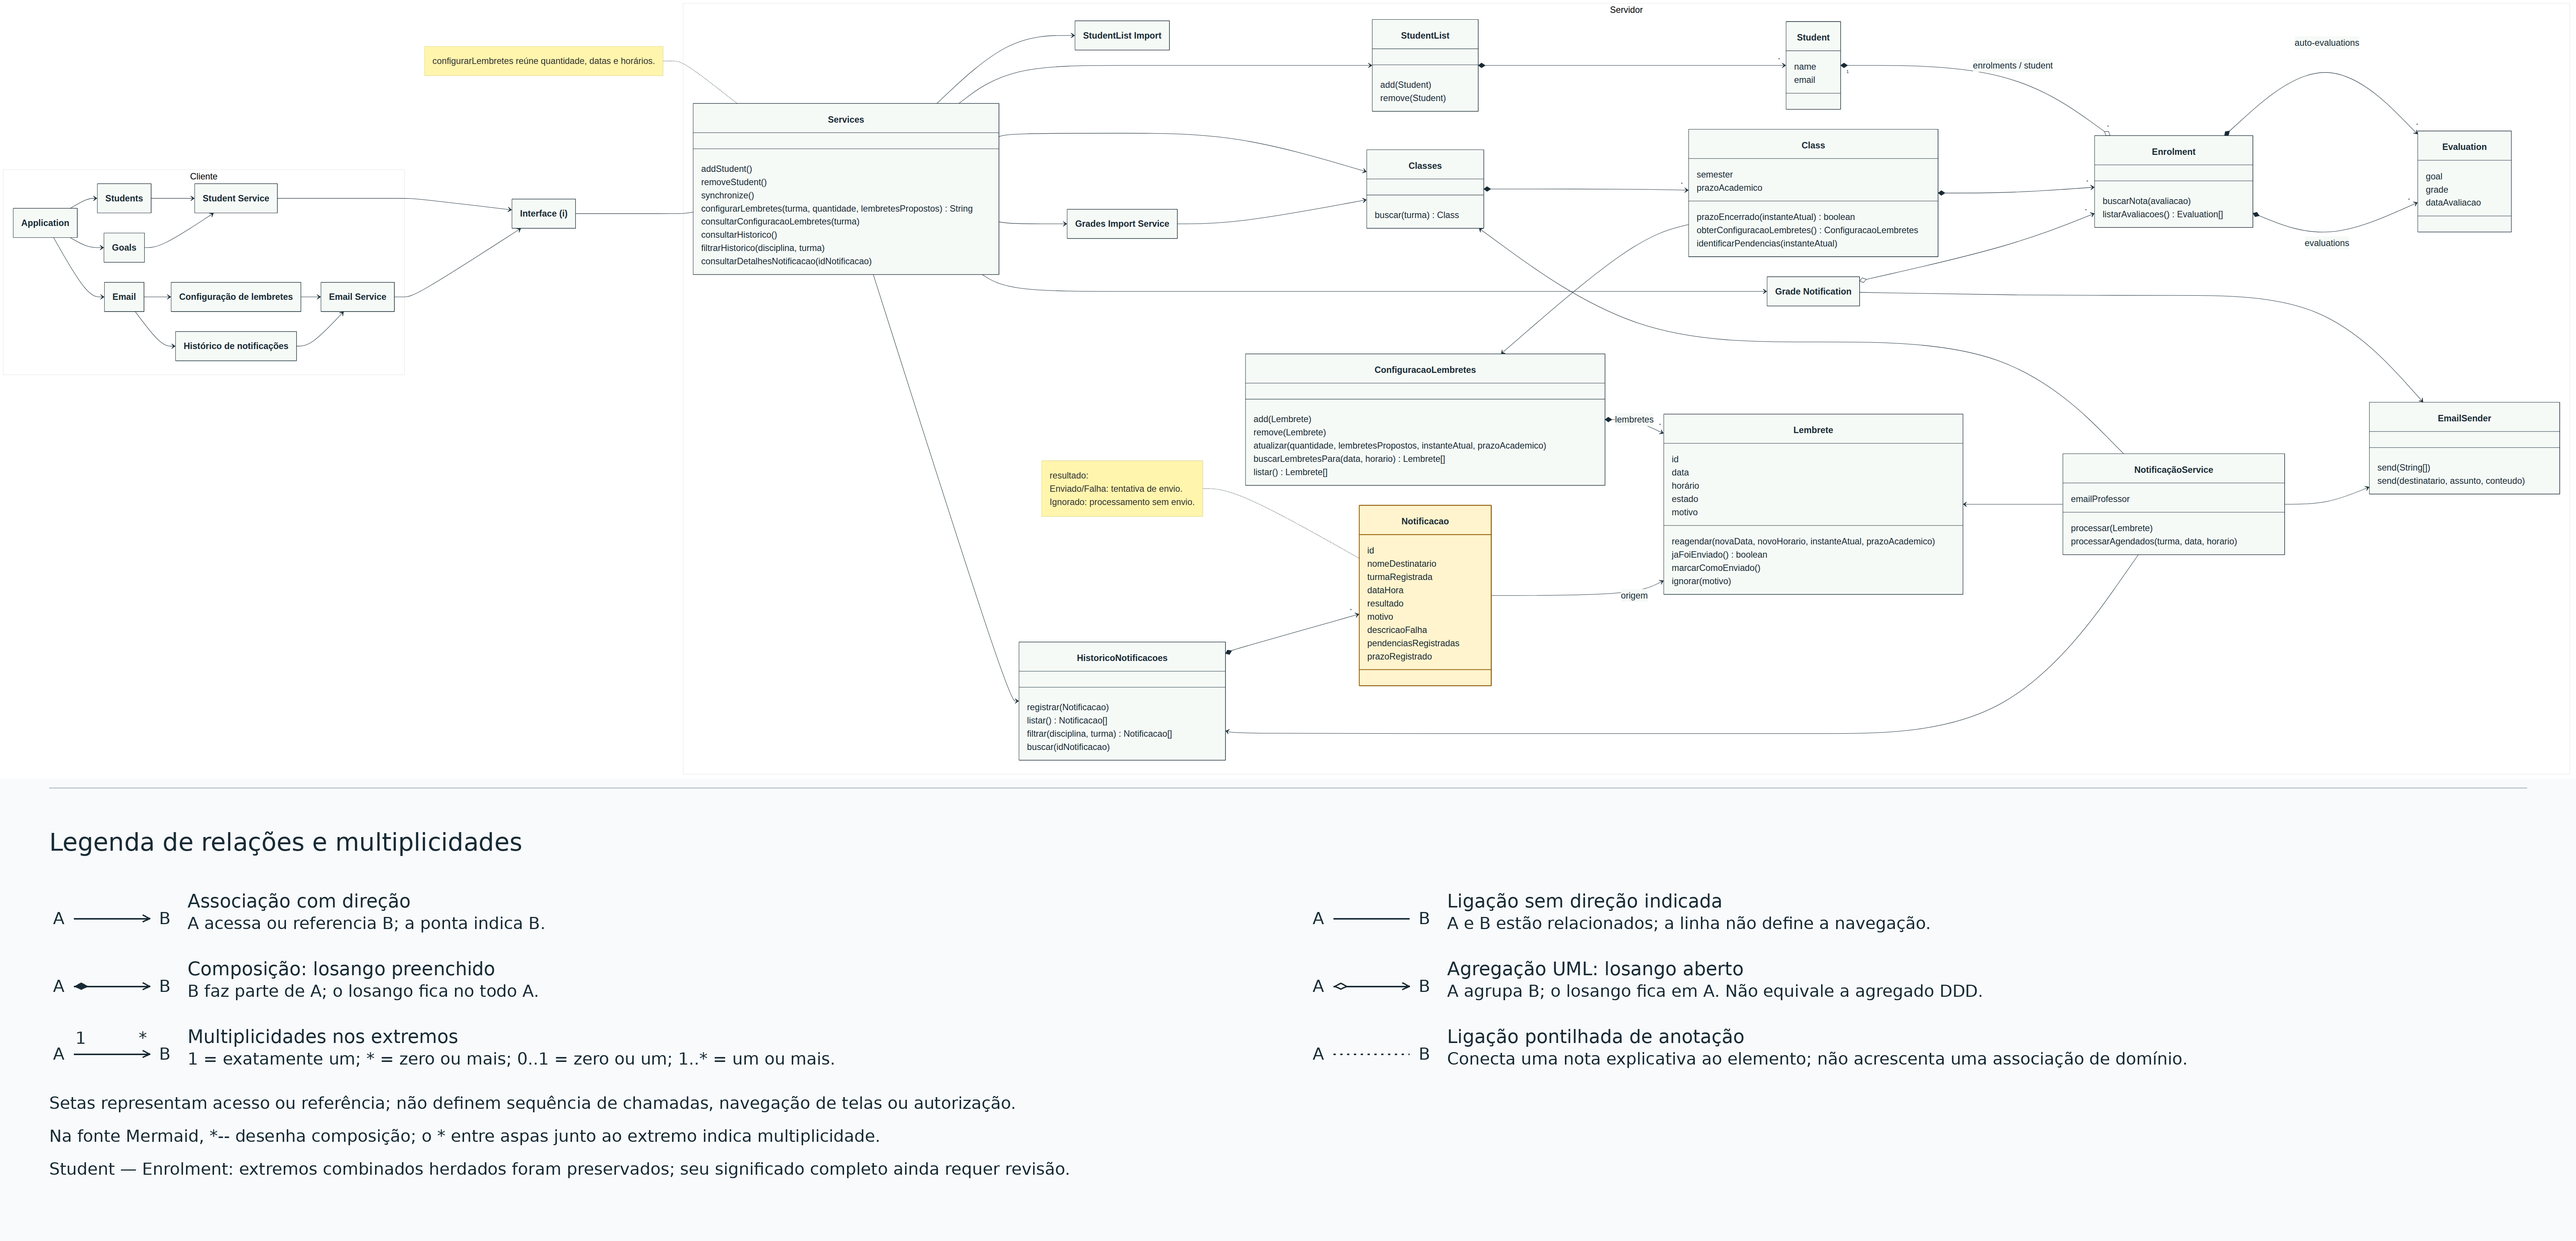
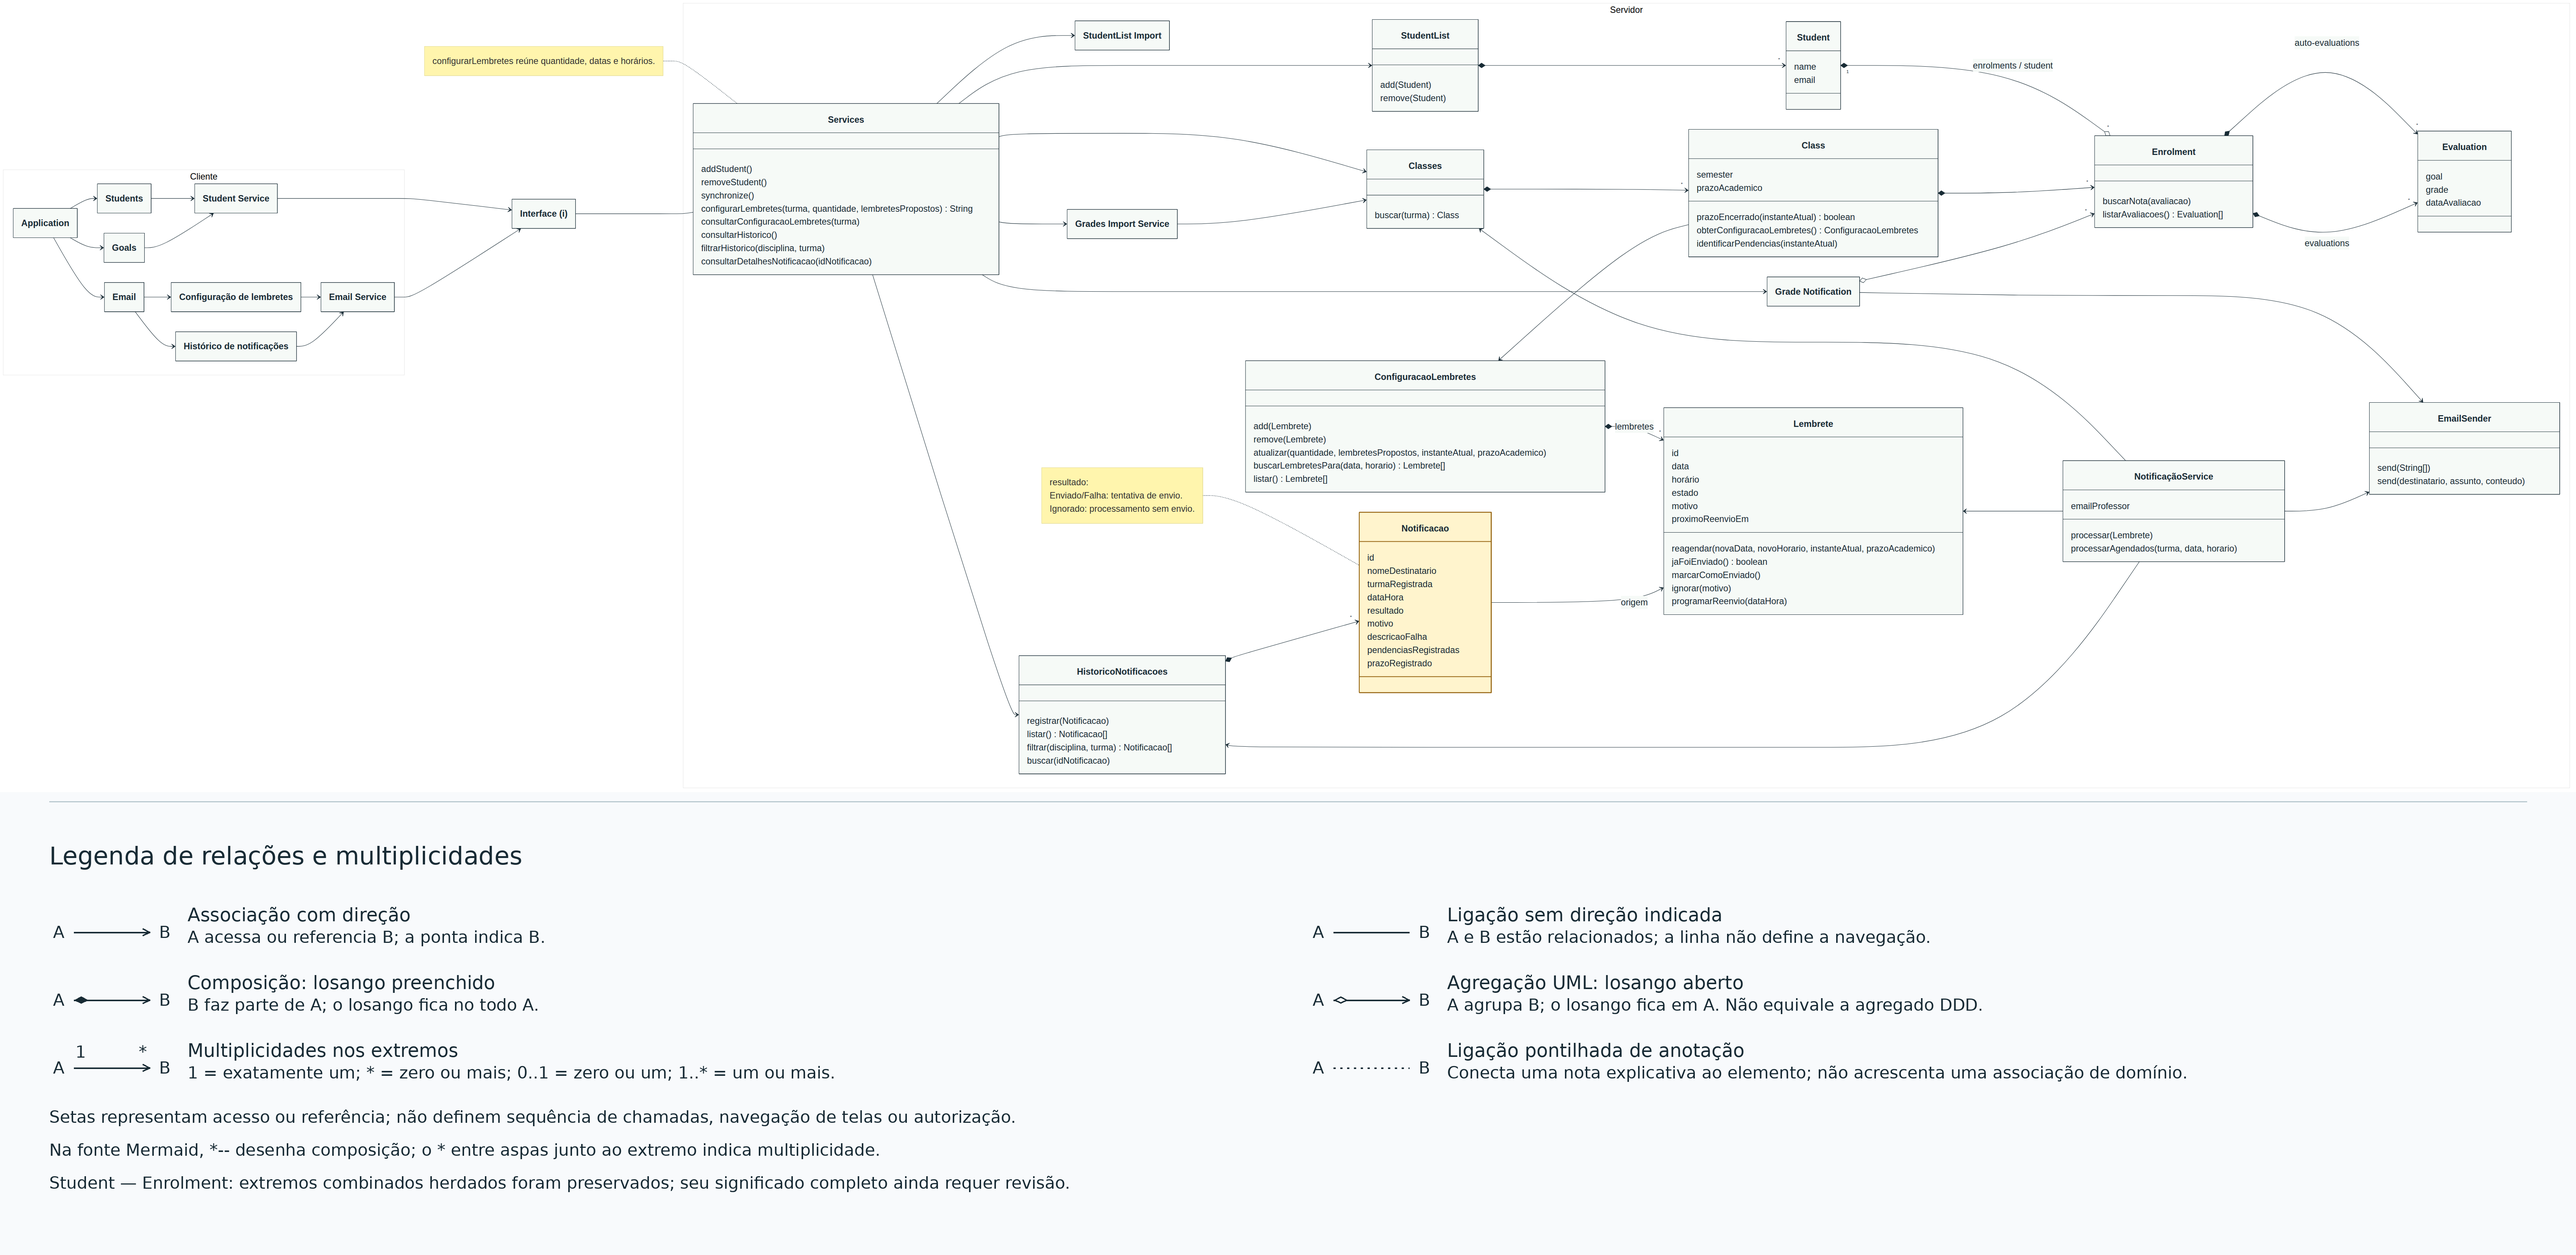
docs: modela reenvio imediato dos lembretes
Acrescenta proximoReenvioEm e programarReenvio(dataHora) em Lembrete.
Define um reenvio imediato após a primeira falha e retira a programação
ao passar para Enviado, preservando o agendamento original e o histórico.

Atualiza o PNG, as regras e a cobertura conceitual, mantendo os passos
Gherkin e a pendência de linguagem entre motivo e descricaoFalha.

diff --git a/docs/arquitetura/GUIA-MERMAID.md b/docs/arquitetura/GUIA-MERMAID.md
@@ -269,7 +269,8 @@ verificação, mesmo quando o prazo já encerrou.
 
 A explicação é um resultado do serviço, não uma falha de envio de email. Ela não
 é armazenada em um novo atributo do lembrete nem cria uma notificação de tentativa.
-Não são acrescentados `motivoCancelamento`, `proximoReenvioEm`, operações ou relações.
+O controle de `proximoReenvioEm` foi aprovado no incremento de reenvio imediato
+descrito adiante; este bloqueio por prazo não cancela nem retira sua programação.
 
 | Contexto | Resultado esperado no modelo |
 | --- | --- |
@@ -757,8 +758,8 @@ A regra considera o estado do lembrete recebido pelo serviço. Carregamento,
 persistência e concorrência continuam pendentes: duas execuções podem observar
 um estado ainda não enviado, e a aceitação do email pode ocorrer antes de uma
 falha de gravação. A consulta, isoladamente, não garante ausência de duplicidade
-nesses casos. O registro próprio de processamentos sem tentativa de email
-também continua pendente.
+nesses casos. O processamento Ignorado sem tentativa de email é registrado pelo
+reaproveitamento de Notificacao descrito anteriormente.
 
 ### Marcação de envio aceito e preservação das falhas
 
@@ -769,7 +770,8 @@ estiver `Enviado`, a operação preserva o objeto sem outra alteração. Em
 `Ignorado`, `Cancelado` ou outra condição não admitida, a marcação é rejeitada
 e os dados anteriores são preservados.
 
-A operação modifica somente o estado do lembrete. `NotificaçãoService` continua
+Ao passar para Enviado, a operação também esvazia `proximoReenvioEm`, preservando
+motivo, identidade e agendamento original. `NotificaçãoService` continua
 coordenando email e histórico: após o serviço de email aceitar uma tentativa
 válida, coordena o registro de uma nova `Notificacao` com resultado `Enviado`
 e chama `marcarComoEnviado()` no mesmo lembrete. `Enviado` continua significando
@@ -785,9 +787,9 @@ Exemplos para percorrer conceitualmente:
 
 | Situação | Resultado esperado no modelo |
 | --- | --- |
-| Primeira tentativa aceita para um lembrete Não enviado ou Agendado | Registrar uma notificação Enviado e marcar o mesmo lembrete como Enviado, preservando id e agendamento; `jaFoiEnviado()` passa a retornar verdadeiro. |
+| Primeira tentativa aceita para um lembrete Não enviado ou Agendado | Registrar uma notificação Enviado e marcar o mesmo lembrete como Enviado, preservando id e agendamento e esvaziando proximoReenvioEm; `jaFoiEnviado()` passa a retornar verdadeiro. |
 | Uma tentativa válida falha | Registrar uma notificação Falha; preservar o estado anterior de aguardando envio; a consulta continua retornando falso. |
-| Uma falha é seguida por uma tentativa aceita | Preservar a falha e acrescentar o sucesso para o mesmo lembrete; ele passa a Enviado e é contabilizado como um único lembrete enviado. |
+| Uma falha é seguida por uma tentativa aceita | Preservar a falha e acrescentar o sucesso para o mesmo lembrete; ele passa a Enviado, fica sem reenvio programado e é contabilizado como um único lembrete enviado. |
 | Lembrete já Enviado recebe chamadas repetidas | `processar` encerra sem novo email ou registro; uma chamada direta de `marcarComoEnviado()` preserva o objeto sem outra alteração. |
 | Marcação solicitada para Ignorado, Cancelado ou outra condição não admitida | Rejeitar sem alterar estado, identificador ou agendamento. |
 
@@ -798,10 +800,43 @@ A coordenação descrita não define uma transação atômica entre email, estad
 histórico. O endereço do destinatário está representado em
 `NotificacaoService.emailProfessor`, e o contrato de EmailSender está descrito acima.
 O comentário complementar sobre processar foi dispensado pelo responsável.
-Permanecem pendentes o agendamento dos reenvios, a persistência e a
-concorrência. Registrar uma falha não garante que outra tentativa será programada.
-O detalhamento da marcação de envio não acrescenta contadores, atributos,
-entidades ou relações; os dados da consulta são descritos em seu próprio recorte.
+O primeiro reenvio imediato foi aprovado conforme a seção abaixo. Permanecem
+pendentes os intervalos e a seleção dos reenvios futuros, os cancelamentos,
+a persistência e a concorrência. Não são acrescentados contadores ou entidades.
+
+### Programação e execução do primeiro reenvio imediato
+
+Foram aprovados `Lembrete.proximoReenvioEm` e
+`Lembrete.programarReenvio(dataHora)`. O campo vazio significa que não há reenvio
+programado. A operação recebe o instante do serviço e altera somente esse campo
+no lembrete que aguarda envio, preservando id, data, horário, estado e motivo.
+Ela não consulta notas ou relógio, envia email nem registra histórico.
+
+Após registrar a primeira tentativa Falha de um lembrete, o método existente
+`NotificacaoService.processar(Lembrete)` programa um reenvio para imediato e
+aciona novamente o processamento do mesmo lembrete, sem ação do professor.
+O histórico já existente permite reconhecer essa condição: há somente uma
+tentativa Enviado/Falha para aquele lembrete, e seu resultado é Falha. Ignorado
+e registros de outros lembretes não entram nessa contagem; não há contador novo.
+A nova execução mantém as verificações de Enviado, prazo e pendências atuais.
+
+| Etapa do cenário | Resultado no modelo |
+| --- | --- |
+| A primeira tentativa de 25/08 às 09:00 falha | Preservar a Falha e programar proximoReenvioEm para imediato. |
+| O serviço executa o reenvio e o Gmail aceita | Acrescentar a Notificacao Enviado e chamar marcarComoEnviado no mesmo lembrete. |
+| O lembrete passa para Enviado | Esvaziar proximoReenvioEm; preservar a primeira Falha e manter duas tentativas e um único lembrete enviado. |
+
+`data` e `horário` continuam sendo o agendamento original; `proximoReenvioEm`
+informa uma tentativa ainda programada, enquanto `Notificacao.dataHora` registra
+o momento de um resultado já ocorrido. As relações existentes com Lembrete e
+HistoricoNotificacoes são reutilizadas; não há método novo em NotificacaoService,
+classe nova ou seta nova.
+
+Se o reenvio imediato falhar, não há outro imediato em cadeia. A progressão de
+intervalos, a programação e seleção das tentativas futuras, o cancelamento e a
+concorrência permanecem nos seus cenários em revisão. O cenário de reenvio
+temporário continua Parcial até validar a diferença de linguagem entre motivo
+da notificação e descricaoFalha; seus nomes e passos Gherkin são preservados.
 
 ## 8. Trabalhar em equipe com branches e PRs
 

diff --git a/docs/arquitetura/COBERTURA-CENARIOS.md b/docs/arquitetura/COBERTURA-CENARIOS.md
@@ -130,16 +130,43 @@ concorrente implementados na aplicação.
 | [Envio independente de lembretes para múltiplas turmas](../../features/Notificacao_falta_cadastrar_alguma_nota.feature#L295) | Parcial | Busca e pendências ficam restritas à turma indicada, com o mesmo emailProfessor e contrato de EmailSender. O comentário complementar sobre processar foi dispensado pelo responsável e deixa de ser uma alteração pendente. A classificação foi preservada até a conclusão da revisão do cenário. |
 | [Bloqueio de envio de lembrete não agendado](../../features/Notificacao_falta_cadastrar_alguma_nota.feature#L316) | Regra central representada | processarAgendados consulta buscarLembretesPara na configuração da turma; lista vazia rejeita a solicitação sem email ou tentativa, preservando prazo, lembretes e histórico. |
 | [Bloqueio de criação de novo lembrete após o prazo acadêmico](../../features/Notificacao_falta_cadastrar_alguma_nota.feature#L335) | Regra central representada | Class.prazoEncerrado verifica o instante do serviço; configurarLembretes rejeita criação com o motivo Prazo acadêmico encerrado, sem alterar configuração, enviados ou histórico nem solicitar email. |
-| [Reenvio automático após falha temporária](../../features/Notificacao_falta_cadastrar_alguma_nota.feature#L354) | Parcial | Falha, sucesso posterior e um único lembrete Enviado estão descritos; faltam disparo imediato e controle dos reenvios programados. |
+| [Reenvio automático após falha temporária](../../features/Notificacao_falta_cadastrar_alguma_nota.feature#L354) | Parcial | proximoReenvioEm e programarReenvio representam a programação; processar aciona um único reenvio imediato após a primeira Falha e marcarComoEnviado esvazia a programação após o sucesso. Preservam-se duas tentativas e um único lembrete enviado. Falta validar motivo versus descricaoFalha nos passos de falha do cenário. |
 | [Prevenção de envio duplicado por reprocessamento de lembrete já enviado](../../features/Notificacao_falta_cadastrar_alguma_nota.feature#L376) | Regra central representada | `jaFoiEnviado()` faz `processar` encerrar sem novo email, notificação de tentativa ou reenvio; preserva lembrete e histórico. |
 | [Bloqueio de novo reenvio após sucesso de tentativa anterior](../../features/Notificacao_falta_cadastrar_alguma_nota.feature#L394) | Regra central representada | O mesmo bloqueio preserva as duas notificações anteriores e impede uma terceira tentativa quando o estado recebido já é Enviado. |
-| [Reenvio progressivo após falhas persistentes](../../features/Notificacao_falta_cadastrar_alguma_nota.feature#L412) | Parcial | Cada falha pode ser registrada sem marcar o lembrete como enviado; faltam progressão de intervalos e programação das próximas tentativas. |
+| [Reenvio progressivo após falhas persistentes](../../features/Notificacao_falta_cadastrar_alguma_nota.feature#L412) | Parcial | O campo e a operação de programação existem, e cada falha preserva o histórico e o estado de aguardando envio. Faltam a regra dos intervalos, a coordenação e a seleção das tentativas futuras; este incremento cobre apenas o primeiro reenvio imediato. |
 | [Prevenção de envio duplicado por processamento concorrente](../../features/Notificacao_falta_cadastrar_alguma_nota.feature#L432) | Pendente | Duas execuções podem observar o estado ainda não enviado. Consulta e marcação, isoladamente, não garantem um único envio ou registro. |
 | [Cancelamento de reenvio após resolução das pendências](../../features/Notificacao_falta_cadastrar_alguma_nota.feature#L448) | Pendente | A consulta das notas atuais pode identificar uma lista vazia; faltam a decisão de cancelar, a transição para Cancelado com motivo e a retirada dos reenvios. Rejeitar marcação de Cancelado não efetua esse cancelamento. |
 | [Interrupção dos reenvios após o prazo acadêmico](../../features/Notificacao_falta_cadastrar_alguma_nota.feature#L470) | Parcial | processar verifica o prazo antes da tentativa e retorna Prazo acadêmico encerrado, sem email ou novo registro, preservando o estado e o histórico; faltam transição para Cancelado, preservação do motivo e interrupção dos reenvios programados. |
 
 Resultado da análise: 18 regras centrais representadas (12 GUI e 6 service),
 5 cenários parciais e 2 pendentes. Isso não equivale a 18 cenários completos passando.
+
+## Primeiro reenvio imediato após falha temporária
+
+Foram aprovados `Lembrete.proximoReenvioEm` e
+`Lembrete.programarReenvio(dataHora)`, além de esvaziar esse campo ao passar para
+Enviado em `marcarComoEnviado()`. Vazio significa nenhum reenvio programado;
+identidade, data e horário originais, estado e motivo são preservados ao programar.
+Não são acrescentados contadores, classes, relações ou métodos no serviço.
+
+Depois de registrar a primeira tentativa Falha, o método existente
+NotificacaoService.processar programa para imediato e aciona novamente o mesmo
+lembrete, sem ação do professor. A primeira falha é reconhecida pelo histórico
+existente do mesmo lembrete: somente uma tentativa, com resultado Falha. As
+consultas consideram Enviado/Falha, excluindo Ignorado e outros lembretes.
+A nova execução preserva os bloqueios de Enviado e prazo e consulta as notas atuais.
+
+No cenário de 25/08 às 09:00, a primeira Falha é preservada e o reenvio aceito
+produz outra Notificacao Enviado. O mesmo lembrete passa para Enviado, com
+proximoReenvioEm vazio, duas tentativas no histórico e um único lembrete enviado.
+O campo guarda a próxima tentativa; não substitui o agendamento original nem
+Notificacao.dataHora, que registra um resultado já ocorrido.
+
+Se o reenvio imediato também falhar, não há novo imediato em cadeia. As regras
+de intervalos, de programação e seleção das próximas tentativas, cancelamentos
+e concorrência continuam em revisão. Os nomes, passos, tags e classificações
+Gherkin são preservados; o cenário continua Parcial pela diferença entre motivo
+e descricaoFalha, ainda não validada. Nenhum teste da aplicação foi executado.
 
 ## Nome do serviço compartilhado
 
